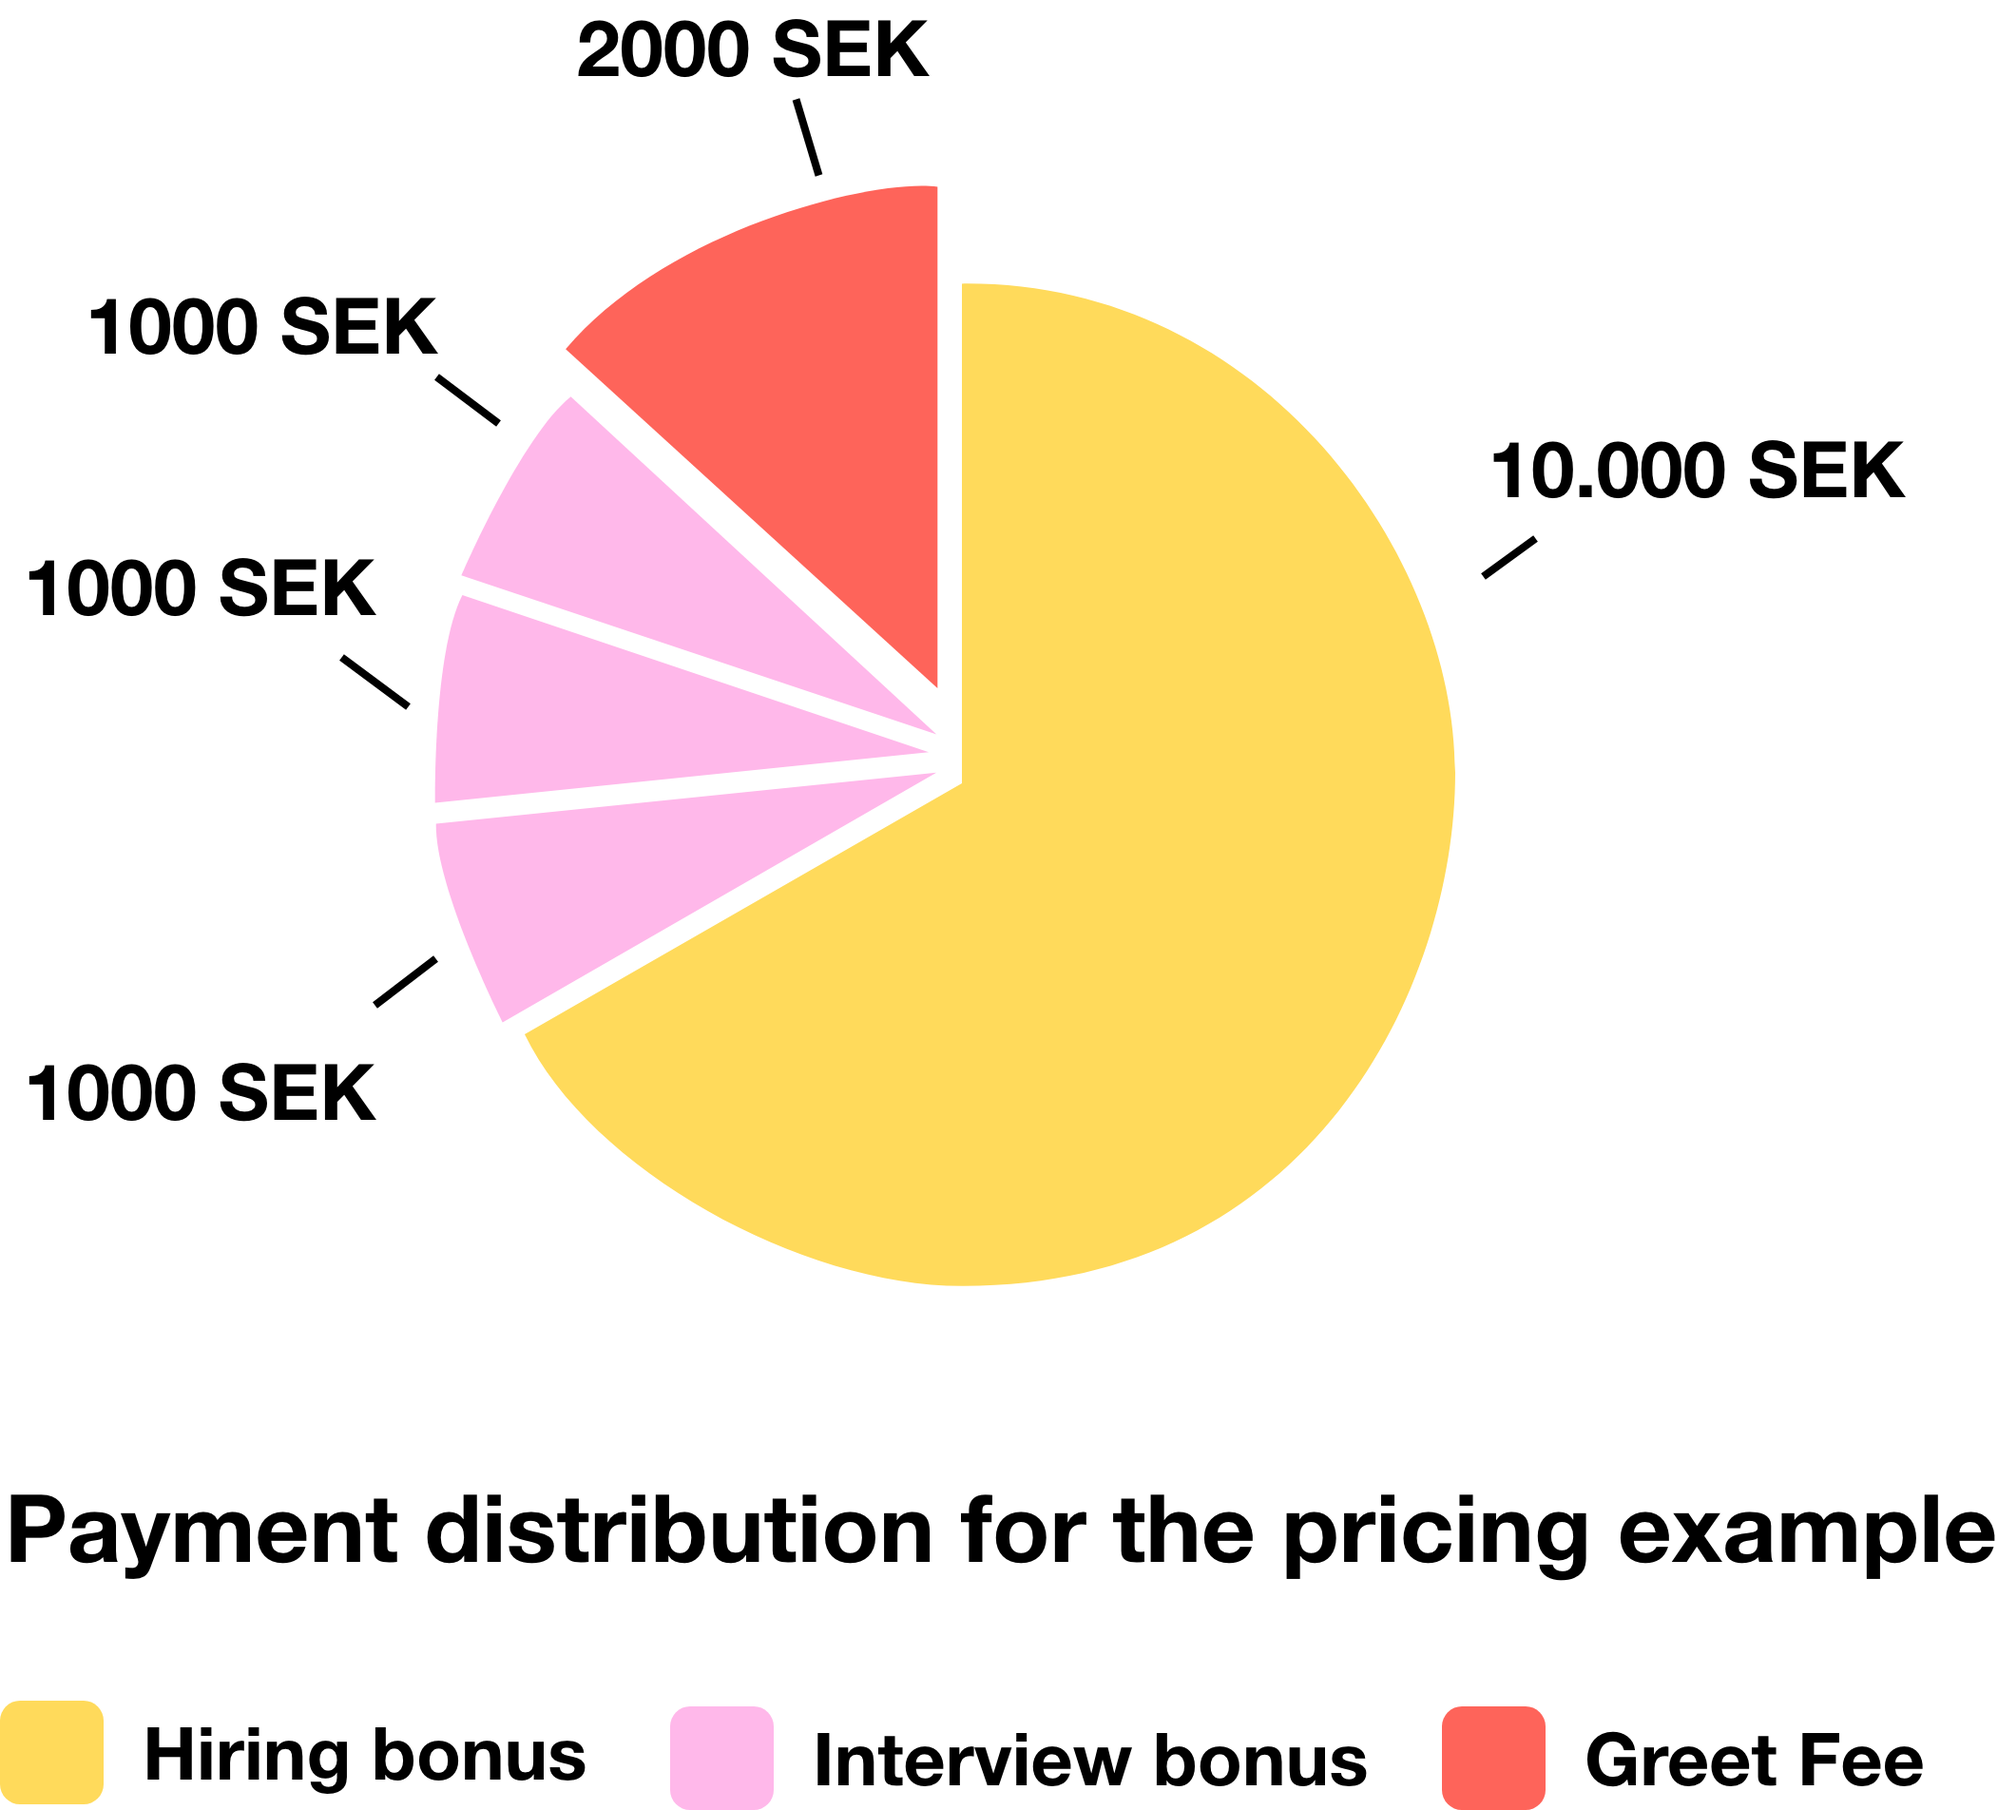
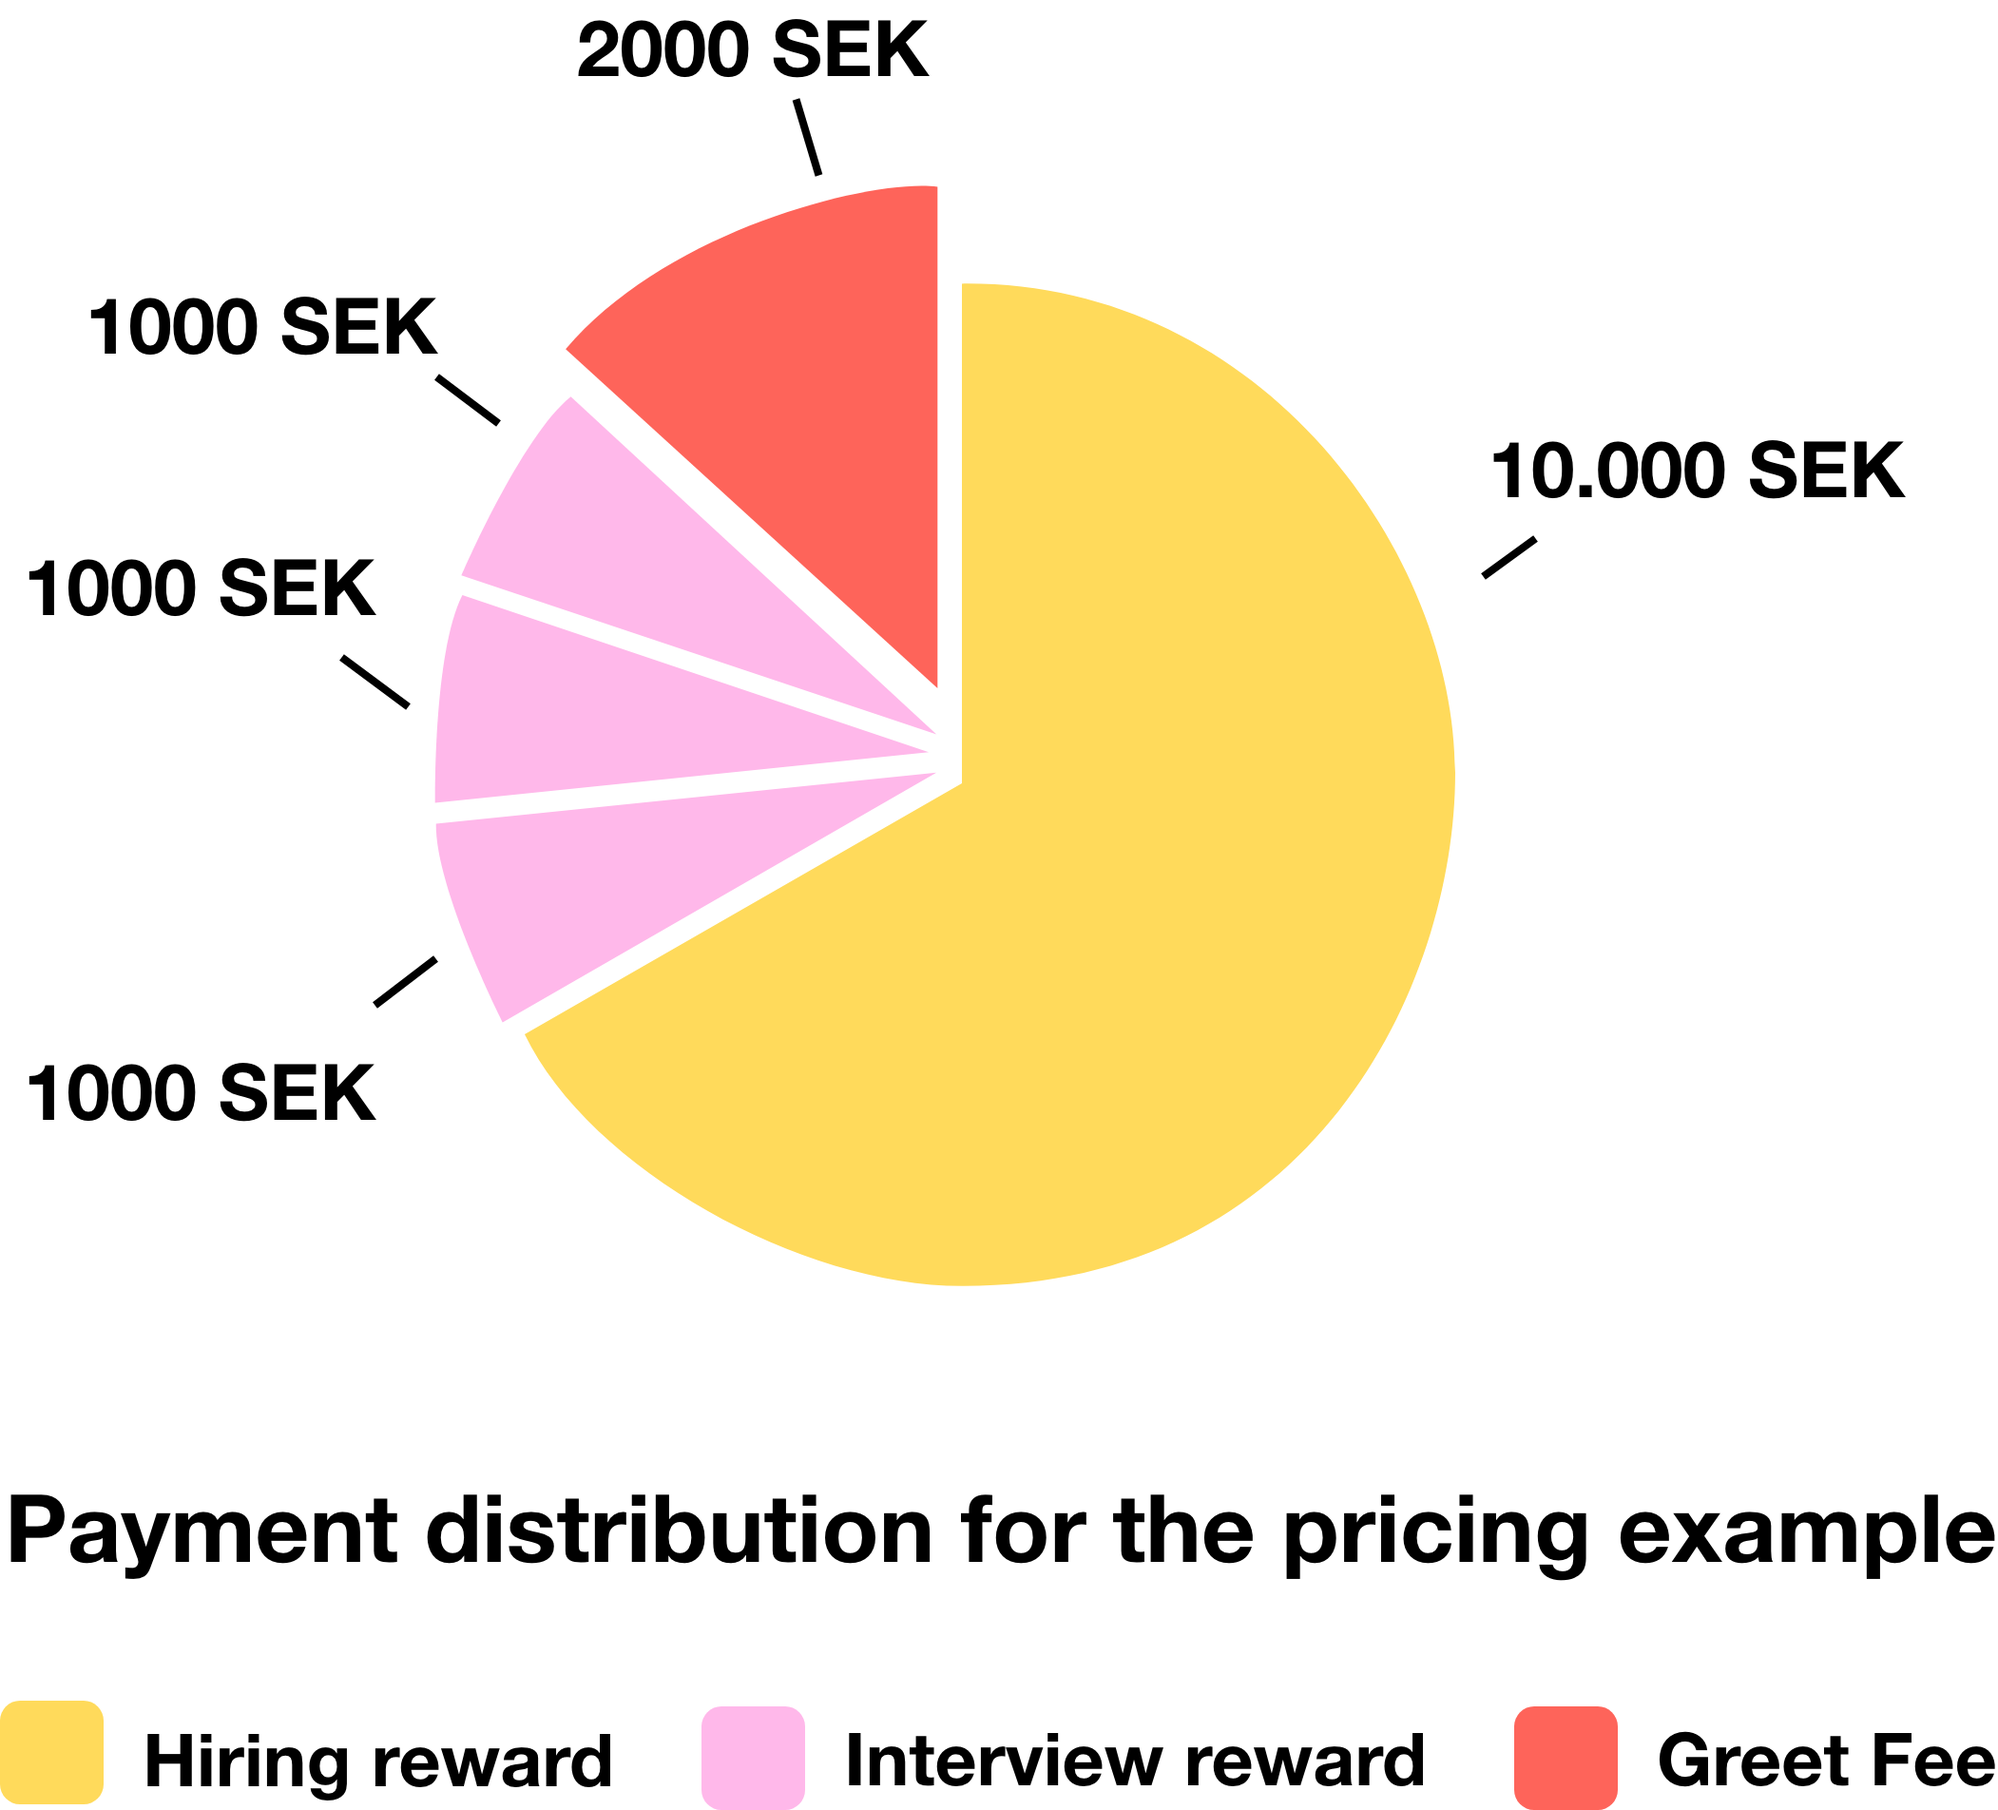
small fixes

Changed region(s): [[0.0618, 0.9296, 1.0, 1.0]]

diff --git a/src/pages/ForCompanies.js b/src/pages/ForCompanies.js
@@ -54,7 +54,7 @@ function ForCompanies() {
               Post a job
             </h1>
             <p className="text-xl font-light">
-              Write a job description, set a hiring bonus and interview bonus.
+              Write a job description, set a hiring reward and interview reward.
             </p>
           </div>
 
@@ -181,11 +181,11 @@ function ForCompanies() {
               Pricing example
             </h1>
             <p className="text-xl mx-auto md:text-left text-center pt-4 md:pr-16 pr-0">
-              You post a job with a hiring bonus of 10 000 SEK and an interview
+              You post a job with a hiring reward of 10 000 SEK and an interview
               bonus of 1000 SEK. You get 17 referrals. After interviewing 3
               candidates you decide to hire one of them. You would now owe 15
-              000 SEK in total. 10 000 for the hiring bonus, 3 x 1000 for the
-              interviews and 2000 for the Greet Fee (20% of the hiring bonus).
+              000 SEK in total. 10 000 for the hiring reward, 3 x 1000 for the
+              interviews and 2000 for the Greet Fee (20% of the hiring reward).
               <br />
               <br />
               Out of these 15 000 SEK. 10 000 will be given to the one who
@@ -203,12 +203,12 @@ function ForCompanies() {
       </div>
 
       <FAQ
-        questionOne="What is the Hiring Bonus, Interview Bonus and Greet Fee?"
-        answerOne="The hiring bonus is what the Greeters will see on the job board and get paid if their referral results in a hiring. The Interview bonus is what is paid if a referral ends up with an interview. You decide what the hiring- and interview bonus should be. The Greet Fee is equal to 20% of your hiring bonus."
+        questionOne="What is the hiring reward, interview reward and Greet Fee?"
+        answerOne="The hiring reward is what the Greeters will see on the job board and get paid if their referral results in a hiring. The interview reward is what is paid if a referral ends up with an interview. You decide what the hiring- and interview reward should be. The Greet Fee is equal to 20% of your hiring reward."
         questionTwo="When and how much do I pay?"
-        answerTwo="Greet was recently launched and we are offering early adopters to start using the service for free (for a limited time), i.e no monthly pricing plan. Instead, you only pay for the interview bonus and hiring bonus when you interview or hire someone. So until then, you get free promotion."
+        answerTwo="Greet was recently launched and we are offering early adopters to start using the service for free (for a limited time), i.e no monthly pricing plan. Instead, you only pay for the interview reward and hiring reward when you interview or hire someone. So until then, you get free promotion."
         questionThree="How do I get my company on Greet?"
-        answerThree="Contact johan@joingreet.com or fill in the form at www.joingreet.com/post-job"
+        answerThree="Contact johan@joingreet.com"
       />
       <Banner
         title="Ready to hire your next star?"

diff --git a/src/pages/About.js b/src/pages/About.js
@@ -6,13 +6,13 @@ function About() {
     window.scrollTo(0, 0);
   }, []);
   return (
-    <>
-      <div className="bg-white md:py-32 py-16 max-w-4xl mx-auto px-3 text-center">
-        <h1 className="mx-auto md:text-6xl text-4xl font-bold text-gray-900 pb-4">
+    <div className="bg-primary">
+      <div className="md:py-44 py-16 max-w-4xl mx-auto px-3 text-center">
+        <h1 className="mx-auto md:text-7xl text-4xl font-bold text-gray-900 pb-4">
           About Greet
         </h1>
 
-        <p className="text-xl font-light">
+        <p className="text-xl font-medium">
           Greetings, we are Greet. We reward people to refer their friends to
           their dream job. Greet was founded in 2021 to help tech companies find
           the talent they need and to help people find a job that they love.
@@ -21,8 +21,7 @@ function About() {
           <br />
         </p>
       </div>
-      <SocialMedia />
-    </>
+    </div>
   );
 }
 

diff --git a/src/components/JobBoard.jsx b/src/components/JobBoard.jsx
@@ -68,7 +68,7 @@ export function JobBoard({ jobAds, title }) {
                   </span>
                   <span className="text-sm font-semibold tracking-wide">
                     {" "}
-                    / hiring bonus
+                    / hiring reward
                   </span>
                 </p>
                 <p className="pl-1 pb-1">
@@ -81,7 +81,7 @@ export function JobBoard({ jobAds, title }) {
                   </span>
                   <span className="text-sm font-semibold tracking-wide">
                     {" "}
-                    / interview bonus
+                    / interview reward
                   </span>
                 </p>
                 <p className="pl-1">

diff --git a/src/components/Trusted.jsx b/src/components/Trusted.jsx
@@ -4,9 +4,9 @@ import volta from "../images/volta_bw.png";
 
 export function Trusted() {
   return (
-    <div className="grid grid-cols-12 w-10/12 mx-auto mt-12 gap-4 md:text-left text-center ">
+    <div className="grid grid-cols-12 w-11/12 mx-auto mt-12 gap-4 md:text-left text-center ">
       <div className="md:col-span-5 col-span-12">
-        <h1 className="text-2xl text-gray-900 pb-3 font-semibold  mt-3">
+        <h1 className="text-2xl text-black pb-3 font-semibold  mt-3">
           Trusted by
         </h1>
       </div>

diff --git a/src/components/Footer.jsx b/src/components/Footer.jsx
@@ -66,13 +66,13 @@ export function Footer() {
 
           <Link
             className="w-28 opacity-60 hover:opacity-100 font-semibold text-lg"
-            to="/"
+            to="/terms-of-use"
           >
             Terms of use
           </Link>
           <Link
             className="w-32 opacity-60 hover:opacity-100 font-semibold text-lg"
-            to="/cookies"
+            to="/privary-policy"
           >
             Privary policy
           </Link>

diff --git a/src/pages/Company.jsx b/src/pages/Company.jsx
@@ -72,7 +72,7 @@ function Company(props) {
                         href={company.website}
                         target="_blank"
                         rel="noreferrer"
-                        className="text-primary"
+                        className="text-secondary"
                       >
                         {company.website.substring(
                           company.website.indexOf("w") + 4

diff --git a/src/pages/Home.js b/src/pages/Home.js
@@ -7,7 +7,8 @@ import { JobBoard } from "../components/JobBoard";
 import { Trusted } from "../components/Trusted";
 import jobs from "../json/jobs.json";
 
-let hotJobs = jobs.filter((j) => j.hot).slice(0, 6);
+//let hotJobs = jobs.filter((j) => j.hot).slice(0, 9);
+let hotJobs = jobs.slice(0, 9);
 
 function Home() {
   useEffect(() => {
